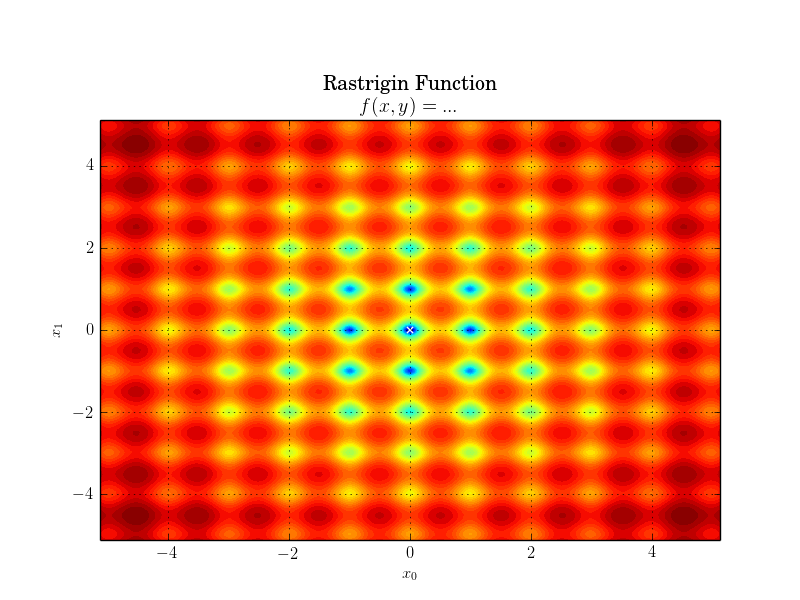
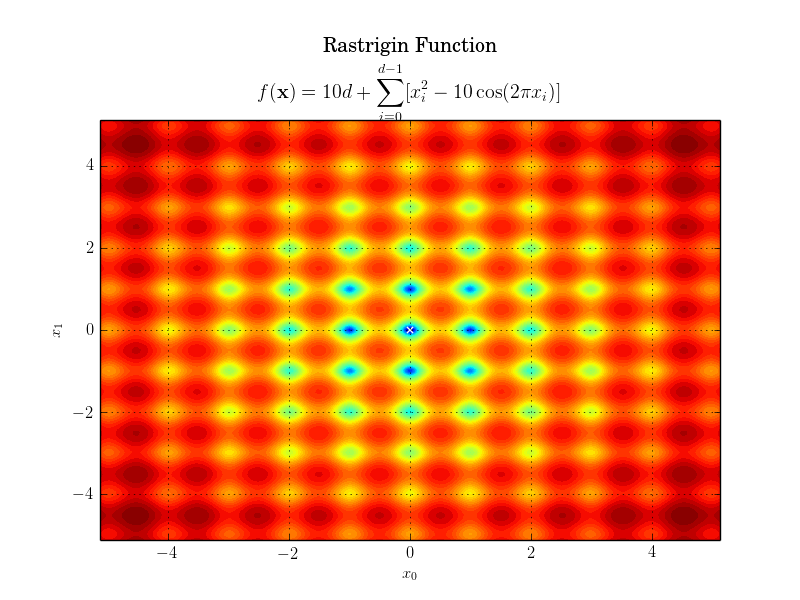
Update equations

Changed region(s): [[0.4062, 0.06, 0.6875, 0.21], [0.3125, 0.15, 0.375, 0.18]]

diff --git a/functions2d/ackley.py b/functions2d/ackley.py
@@ -10,6 +10,10 @@ class Ackley(Function2D):
 
     def __init__(self):
         """ Constructor. """
+        # Constants
+        self.a = 20
+        self.b = 0.2
+        self.c = 2*np.pi
         # Information
         self.min = np.array([0.0, 0.0])
         self.value = 0.0
@@ -20,7 +24,7 @@ class Ackley(Function2D):
         # Description
         self.latex_name = "Ackley's Function"
         self.latex_type = "Many Local Minima"
-        self.latex_cost = r'$\displaystyle f(x, y)  = -20\exp\left(-0.2\sqrt{0.5\left(x^{2}+y^{2}\right)}\right) -\exp\left(0.5\left(\cos\left(2\pi x\right)+\cos\left(2\pi y\right)\right)\right) + 20 + e $'
+        self.latex_cost = r"\[ f(\mathbf{x})  = -20\exp\left(-0.2\sqrt{0.5\left(x_0^{2}+x_1^{2}\right)}\right) -\exp\left(0.5\left(\cos\left(2\pi x_0\right)+\cos\left(2\pi x_1\right)\right)\right) + 20 + \exp(1) \]"
         self.latex_desc = "It is characterized by a nearly flat outer region, and a large hole at the centre. The " \
                           "function poses a risk for optimization algorithms, particularly hillclimbing algorithms, " \
                           "to be trapped in one of its many local minima. "

diff --git a/functions2d/perm.py b/functions2d/perm.py
@@ -9,6 +9,8 @@ class Perm(Function2D):
 
     def __init__(self):
         """ Constructor. """
+        # Constant
+        self.beta = 1
         # Information
         self.min = np.array([1.0, 0.5])
         self.value = 0.0
@@ -19,7 +21,7 @@ class Perm(Function2D):
         # Description
         self.latex_name = "Perm Function"
         self.latex_type = "Bowl-Shaped"
-        self.latex_cost = "\[ f(x,y) = ... \]"
+        self.latex_cost = r"\[ f(\mathbf{x}) = \sum_{i=1}^{d} \left ( \sum_{j=0}^{d-1} (j + 1 + \beta) \left ( x_j^i - \frac{1}{(j +1)^i} \right ) \right )^2 \]"
         self.latex_desc = "..."
 
     def cost(self, x):
@@ -27,6 +29,6 @@ class Perm(Function2D):
         # Cost
         c = np.zeros(x.shape[1:])
         # Calculate Cost
-        c = np.sum([np.sum([(j + 2)*(x[j]**i - 1/((j+1)**i)) for j in range(0, 2)], axis=0)**2 for i in range(1, 3)], axis=0)
+        c = np.sum([np.sum([(j + 1 + self.beta)*(x[j]**i - 1/((j+1)**i)) for j in range(0, 2)], axis=0)**2 for i in range(1, 3)], axis=0)
         # Return Cost
         return c

diff --git a/functions2d/bukin_6.py b/functions2d/bukin_6.py
@@ -4,8 +4,8 @@ from functions2d.function2d import Function2D
 
 
 # Problem
-class Bukin(Function2D):
-    """ Bukin Function. """
+class Bukin6(Function2D):
+    """ Bukin No. 6 Function. """
 
     def __init__(self):
         """ Constructor. """
@@ -19,7 +19,7 @@ class Bukin(Function2D):
         # Description
         self.latex_name = "Bukin Function No.6"
         self.latex_type = "Many Local Minima"
-        self.latex_cost = r'\[ f(x, y) = f(x,y) = 100\sqrt{\left|y - 0.01x^{2}\right|} + 0.01 \left|x+10 \right| \]'
+        self.latex_cost = r"\[ f(\mathbf{x}) = 100\sqrt{\left|x_1 - 0.01x_0^{2}\right|} + 0.01 \left|x_0+10 \right| \]"
         self.latex_desc = "The sixth Bukin function has many local minima, all of which lie in a ridge.  "
 
     def cost(self, x):

diff --git a/functions2d/eggholder.py b/functions2d/eggholder.py
@@ -20,7 +20,7 @@ class Eggholder(Function2D):
         # Description
         self.latex_name = "Eggholder Function"
         self.latex_type = "Many Local Minima"
-        self.latex_cost = r'\[ f(x,y) = - \left(y+47\right) \sin \left(\sqrt{\left|y + \frac{x}{2}+47\right|}\right) - x \sin \left(\sqrt{\left|x - \left(y + 47 \right)\right|}\right) \]'
+        self.latex_cost = r"\[ f(\mathbf{x}) = - \left(x_1+47\right) \sin \left(\sqrt{\left|x_1 + \frac{x}{2}+47\right|}\right) - x_0 \sin \left(\sqrt{\left|x_0 - \left(x_1 + 47 \right)\right|}\right) \]"
         self.latex_desc = "The Eggholder function is a difficult function to optimize, because of the large number of local minima. "
 
     def cost(self, x):

diff --git a/functions2d/cross_in_tray.py b/functions2d/cross_in_tray.py
@@ -22,7 +22,7 @@ class CrossInTray(Function2D):
         # Description
         self.latex_name = "Cross in Tray Function"
         self.latex_type = "Many Local Minima"
-        self.latex_cost = r'\[ f(x, y) = -0.0001 \left( \left| \sin \left(x\right) \sin \left(y\right) \exp \left( \left|100 - \frac{\sqrt{x^{2} + y^{2}}}{\pi} \right|\right)\right| + 1 \right)^{0.1} \]'
+        self.latex_cost = r"\[ f(\mathbf{x}) = -0.0001 \left( \left| \sin \left(x_0\right) \sin \left(x_1\right) \exp \left( \left|100 - \frac{\sqrt{x_0^{2} + x_1^{2}}}{\pi} \right|\right)\right| + 1 \right)^{0.1} \]"
         self.latex_desc = "The Cross-in-Tray function has multiple global minima."
 
     def cost(self, x):

diff --git a/functions2d/schaffer_4.py b/functions2d/schaffer_4.py
@@ -13,12 +13,13 @@ class Schaffer4(Function2D):
         self.min = np.array([0.0, 0.0])
         self.value = 0.0
         self.domain = np.array([[-100.0, 100.0], [-100.0, 100.0]])
+        self.n = 2
         self.smooth = False
         self.info = [True, False, False]
         # Description
         self.latex_name = "Schaffer No. 4 Function"
         self.latex_type = "Many Local Minima"
-        self.latex_cost = r'$\displaystyle f(x, y)  = ... $'
+        self.latex_cost = r"\[ f(\mathbf{x}) = 0.5 + \frac{\cos(\sin(|x_0^2 - x_1^2|)) - 0.5}{[1 + 0.001(x_0^2 + x_1^2)]^2} \]"
         self.latex_desc = "The fourth Schaffer function has many local minima. "
 
     def cost(self, x):

diff --git a/functions2d/sum_squares.py b/functions2d/sum_squares.py
@@ -19,8 +19,8 @@ class SumSquares(Function2D):
         # Description
         self.latex_name = "Sum Squares Function"
         self.latex_type = "Bowl-Shaped"
-        self.latex_cost = "\[ f(x,y) = \sum_{i=1}^d  i x_i^2 \]"
-        self.latex_desc = " The Sum Squares function, also referred to as the Axis Parallel Hyper-Ellipsoid" \
+        self.latex_cost = r"\[ f(\mathbf{x}) = \sum_{i=0}^d  (i + 1) x_i^2 \]"
+        self.latex_desc = "The Sum Squares function, also referred to as the Axis Parallel Hyper-Ellipsoid" \
                           "function, has no local minimum except the global one. It is continuous, convex and unimodal."
 
     def cost(self, x):

diff --git a/functions2d/rotated_hyper_ellipsoid.py b/functions2d/rotated_hyper_ellipsoid.py
@@ -19,7 +19,7 @@ class RotatedHyperEllipsoid(Function2D):
         # Description
         self.latex_name = "Rotated Hyper-Ellipsoid Function"
         self.latex_type = "Bowl-Shaped"
-        self.latex_cost = "\[ f(x,y) = \sum_{i=1}^d \sum_{j=1}^i x_j^2 \]"
+        self.latex_cost = r"\[ f(\mathbf{x}) = \sum_{i=0}^{d-1} \sum_{j=1}^i x_j^2 \]"
         self.latex_desc = "The Rotated Hyper-Ellipsoid function is continuous, convex and unimodal. It is an " \
                           "extension of the Axis Parallel Hyper-Ellipsoid function, also referred to as the Sum " \
                           "Squares function. The plot shows its two-dimensional form. "

diff --git a/functions2d/holder_table.py b/functions2d/holder_table.py
@@ -22,7 +22,7 @@ class HolderTable(Function2D):
         # Description
         self.latex_name = "Holder Table Function"
         self.latex_type = "Many Local Minima"
-        self.latex_cost = r'\[ f(x, y) = ... \]'
+        self.latex_cost = r"\[ f(\mathbf{x}) = \left | \sin(x_0) \cos(x_1) \exp \left ( \left | 1 - \frac{\sqrt{x_0^2 + x_1^2}}{\pi} \right | \right ) \right | \]"
         self.latex_desc = "The Holder Table function has many local minima, with four global minima. "
 
     def cost(self, x):

diff --git a/functions2d/griewank.py b/functions2d/griewank.py
@@ -20,7 +20,7 @@ class Griewank(Function2D):
         # Description
         self.latex_name = "Griewank Function"
         self.latex_type = "Many Local Minima"
-        self.latex_cost = r'\[ f(x,y) = ... \]'
+        self.latex_cost = r"\[ f(\mathbf{x}) = \sum_{i=0}^{d-1} \frac{x_i^2}{4000} - \prod^{i=0}^{d-1} \cos \left ( \frac{x_i}{\sqrt{i}} \right ) + 1 \]"
         self.latex_desc = "The Griewank function has many widespread local minima, which are regularly distributed."
 
     def cost(self, x):

diff --git a/functions2d/rastrigin.py b/functions2d/rastrigin.py
@@ -19,7 +19,7 @@ class Rastrigin(Function2D):
         # Description
         self.latex_name = "Rastrigin Function"
         self.latex_type = "Many Local Minima"
-        self.latex_cost = "\[ f(x,y) = ... \]"
+        self.latex_cost = r"\[ f(\mathbf{x}) = 10d + \sum_{i=0}^{d-1} [x_i^2 - 10 \cos(2 \pi x_i)] \]"
         self.latex_desc = "The Rastrigin function has several local minima. It is highly multimodal, but locations of the minima are regularly distributed."
 
     def cost(self, x):

diff --git a/functions2d/sum_of_different_powers.py b/functions2d/sum_of_different_powers.py
@@ -19,7 +19,7 @@ class SumOfDifferentPowers(Function2D):
         # Description
         self.latex_name = "Sum of Different Powers Function"
         self.latex_type = "Bowl-Shaped"
-        self.latex_cost = "\[ f(x,y) = \sum_{i=1}^d  |x_i|^{i+1} \]"
+        self.latex_cost = r"\[ f(\mathbf{x}) = \sum_{i=0}^d  |x_i|^{i+2} \]"
         self.latex_desc = " The Sum of Different Powers function is unimodal. It is shown here in its two-dimensional" \
                           " form.  "
 
